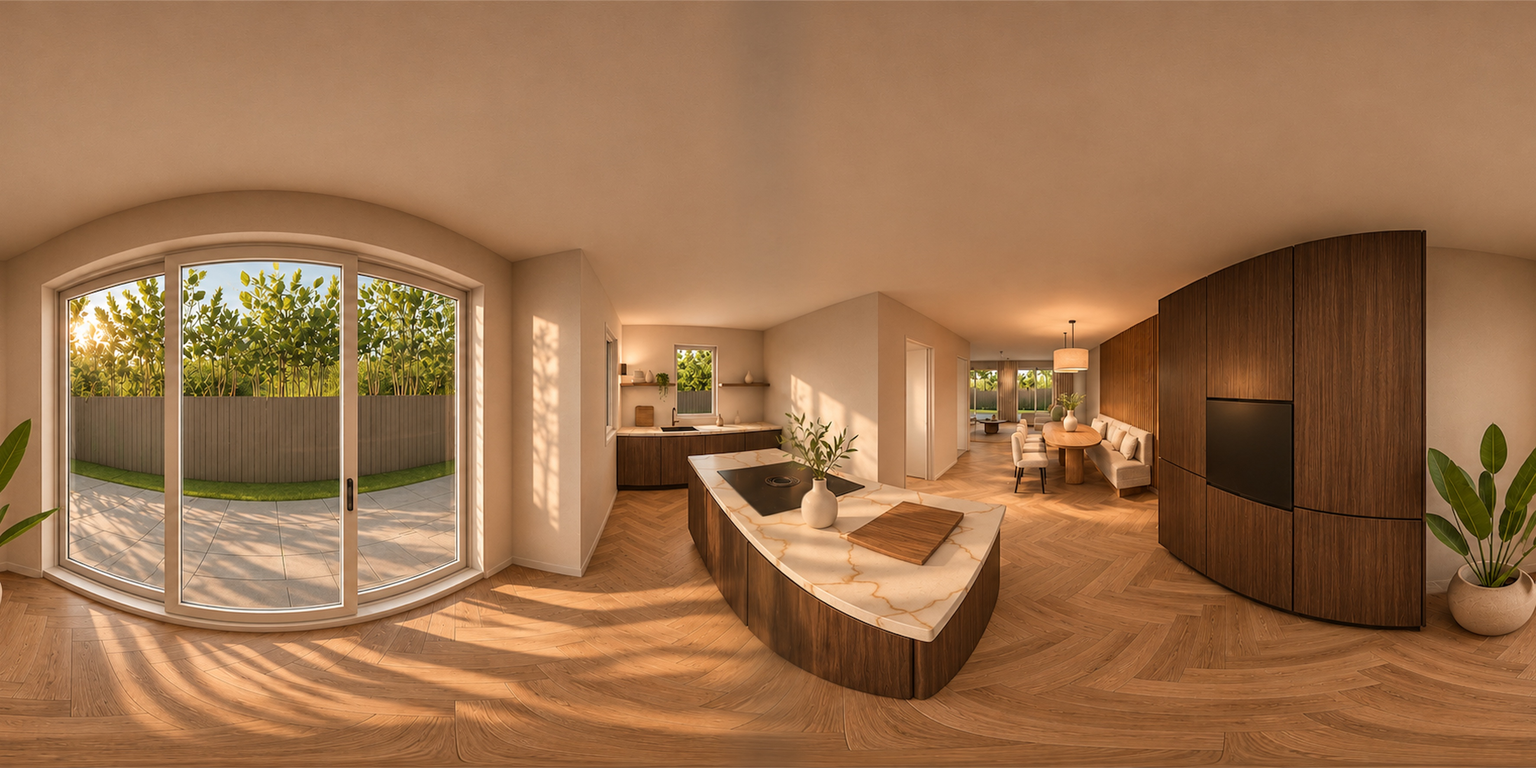
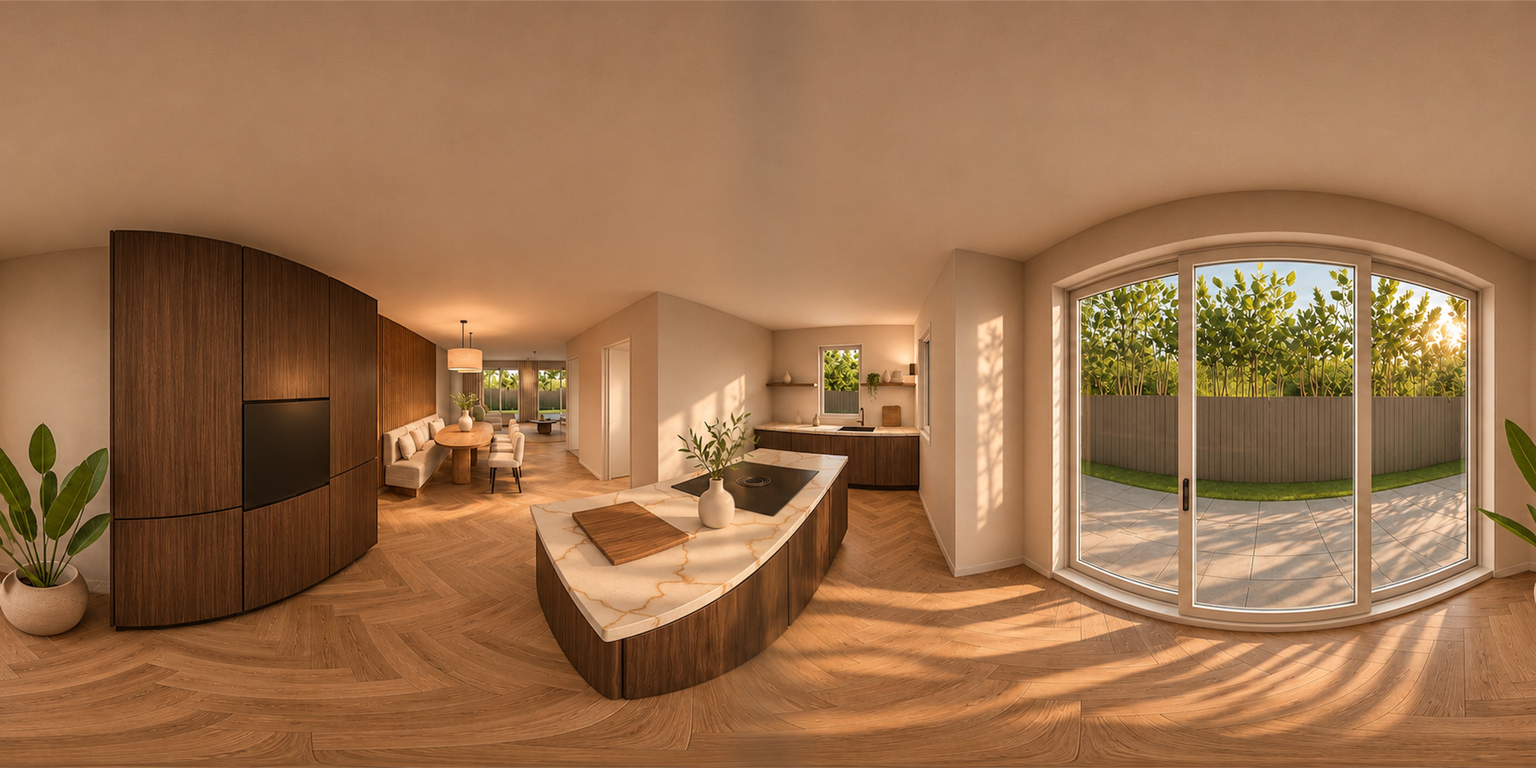
Correct entry orientation and add two living layouts

diff --git a/tour.js b/tour.js
@@ -1,10 +1,20 @@
 const rooms = {
+  binnenkomst: {
+    title: 'Binnenkomst',
+    yaw: 0,
+    pitch: -7,
+    hfov: 118,
+    exits: [
+      { room: 'keuken', text: 'Links naar de keuken', pitch: -11, yaw: -49 },
+      { room: 'woonkamer', text: 'Rechts naar de woonkamer', pitch: -11, yaw: 49 }
+    ]
+  },
   woonkamer: {
     title: 'Woonkamer',
-    yaw: -44,
+    yaw: 44,
     pitch: -6,
     exits: [
-      { room: 'keuken', text: 'Naar de keuken', pitch: -9, yaw: -7 }
+      { room: 'keuken', text: 'Naar de keuken', pitch: -9, yaw: 7 }
     ]
   },
   keuken: {
@@ -12,49 +22,52 @@ const rooms = {
     yaw: 0,
     pitch: -8,
     exits: [
-      { room: 'woonkamer', text: 'Naar de woonkamer', pitch: -10, yaw: 42, targetYaw: -112, targetPitch: -5 }
+      { room: 'woonkamer', text: 'Naar de woonkamer', pitch: -10, yaw: -42, targetYaw: 112, targetPitch: -5 }
     ]
   }
 };
 
-const sceneId = (room, mode, time) => `${room}-${mode}-${time}`;
+const sceneId = ({ room, mode, time, layout }) => `${room}-${mode}-${time}-${layout}`;
 const scenes = {};
-for (const [room, { yaw, pitch, exits }] of Object.entries(rooms)) {
+for (const [room, { yaw, pitch, hfov, exits }] of Object.entries(rooms)) {
   for (const mode of ['foto', 'model']) {
     for (const time of ['dag', 'avond']) {
-      const evening = time === 'avond' ? '-avond' : '';
-      const photo = mode === 'foto' ? '-fotorealistisch' : '';
-      scenes[sceneId(room, mode, time)] = {
-        yaw,
-        pitch,
-        panorama: `panorama/${room}${evening}${photo}.jpg`,
-        hotSpots: exits.map(({ room: destination, ...hotSpot }) => ({
-          ...hotSpot,
-          type: 'scene',
-          sceneId: sceneId(destination, mode, time)
-        }))
-      };
+      for (const layout of ['haard', 'bank']) {
+        const variant = room === 'woonkamer' && layout === 'haard' ? '-haard'
+          : room === 'binnenkomst' && layout === 'bank' ? '-bank' : '';
+        const evening = time === 'avond' ? '-avond' : '';
+        const photo = mode === 'foto' ? '-fotorealistisch' : '';
+        scenes[sceneId({ room, mode, time, layout })] = {
+          yaw,
+          pitch,
+          ...(hfov ? { hfov } : {}),
+          panorama: `panorama/${room}${variant}${evening}${photo}.jpg?v=4`,
+          hotSpots: exits.map(({ room: destination, ...hotSpot }) => ({
+            ...hotSpot,
+            type: 'scene',
+            sceneId: sceneId({ room: destination, mode, time, layout })
+          }))
+        };
+      }
     }
   }
 }
 
-const controls = [
-  ['room', document.querySelectorAll('button[data-room]')],
-  ['mode', document.querySelectorAll('button[data-mode]')],
-  ['time', document.querySelectorAll('button[data-time]')]
-];
+const controls = ['room', 'mode', 'time', 'layout'].map(field => [
+  field, document.querySelectorAll(`button[data-${field}]`)
+]);
 const heading = document.getElementById('room-name');
 const status = document.getElementById('loading');
 
 const viewer = pannellum.viewer('panorama', {
   default: {
-    firstScene: sceneId('woonkamer', 'foto', 'dag'),
+    firstScene: sceneId({ room: 'binnenkomst', mode: 'foto', time: 'dag', layout: 'haard' }),
     type: 'equirectangular',
     autoLoad: true,
     sceneFadeDuration: 320,
     hfov: 87,
     minHfov: 55,
-    maxHfov: 105,
+    maxHfov: 118,
     showControls: true,
     mouseZoom: true,
     strings: {
@@ -69,8 +82,8 @@ const viewer = pannellum.viewer('panorama', {
 });
 
 function sceneState(id) {
-  const [room, mode, time] = id.split('-');
-  return { room, mode, time };
+  const [room, mode, time, layout] = id.split('-');
+  return { room, mode, time, layout };
 }
 
 viewer.on('scenechange', (id) => {
@@ -95,10 +108,12 @@ for (const [field, buttons] of controls) {
     button.addEventListener('click', () => {
       const state = sceneState(viewer.getScene());
       const value = button.dataset[field];
-      if (state[field] === value) return;
+      const goToLiving = field === 'layout' && state.room !== 'woonkamer';
+      if (state[field] === value && !goToLiving) return;
       state[field] = value;
-      const destination = sceneId(state.room, state.mode, state.time);
-      if (field === 'room') {
+      if (goToLiving) state.room = 'woonkamer';
+      const destination = sceneId(state);
+      if (field === 'room' || goToLiving) {
         viewer.loadScene(destination);
       } else {
         viewer.loadScene(destination, viewer.getPitch(), viewer.getYaw(), viewer.getHfov());

diff --git a/index.html b/index.html
@@ -6,16 +6,16 @@
   <meta name="description" content="360°-proefrondleiding door de woonkamer en keuken van Akkerheer.">
   <title>Akkerheer | 360°-rondleiding</title>
   <link rel="stylesheet" href="vendor/pannellum.css">
-  <link rel="stylesheet" href="tour.css?v=3">
+  <link rel="stylesheet" href="tour.css?v=4">
   <script src="vendor/pannellum.js" defer></script>
-  <script src="tour.js?v=3" defer></script>
+  <script src="tour.js?v=4" defer></script>
 </head>
 <body>
   <main>
     <div id="panorama" aria-label="Interactief panorama"></div>
     <header class="caption">
       <p>AKKERHEER · BEGANE GROND</p>
-      <h1 id="room-name" aria-live="polite">Woonkamer</h1>
+      <h1 id="room-name" aria-live="polite">Binnenkomst</h1>
     </header>
     <div class="tour-options">
       <div class="view-mode" role="group" aria-label="Weergave">
@@ -26,10 +26,15 @@
         <button type="button" data-time="dag" aria-pressed="true">Overdag</button>
         <button type="button" data-time="avond" aria-pressed="false">Avond</button>
       </div>
+      <div class="layout-mode" role="group" aria-label="Woonkamerindeling">
+        <button type="button" data-layout="haard" aria-pressed="true">Haard bij eettafel</button>
+        <button type="button" data-layout="bank" aria-pressed="false">Bank bij eettafel</button>
+      </div>
     </div>
     <p id="loading" role="status">Panorama laden…</p>
     <nav aria-label="Kies een ruimte">
-      <button type="button" data-room="woonkamer" aria-pressed="true">Woonkamer</button>
+      <button type="button" data-room="binnenkomst" aria-pressed="true">Binnenkomst</button>
+      <button type="button" data-room="woonkamer" aria-pressed="false">Woonkamer</button>
       <button type="button" data-room="keuken" aria-pressed="false">Keuken</button>
     </nav>
   </main>

diff --git a/tour.css b/tour.css
@@ -18,7 +18,7 @@ body { margin: 0; }
 }
 .caption p { margin: 0 0 7px; font-size: .7rem; letter-spacing: .17em; font-weight: 650; }
 h1 { margin: 0; font: normal clamp(2rem, 4vw, 3.2rem) Georgia, serif; }
-.view-mode, .time-mode, nav {
+.view-mode, .time-mode, .layout-mode, nav {
   display: flex;
   gap: 7px;
   border-radius: 16px;
@@ -42,7 +42,9 @@ nav {
   z-index: 2;
   top: calc(max(0px, env(safe-area-inset-top)) + 25px);
   right: 25px;
+  max-width: 480px;
 }
+.layout-mode { margin-left: auto; }
 button {
   min-height: 44px;
   border: 0;
@@ -78,10 +80,13 @@ button:focus-visible { outline: 2px solid #fff; outline-offset: 2px; }
     justify-content: flex-start;
     gap: 6px;
   }
-  .view-mode, .time-mode { gap: 3px; padding: 4px; }
+  .view-mode, .time-mode, .layout-mode { gap: 3px; padding: 4px; }
+  .layout-mode { margin-left: 0; }
   .tour-options button { padding: 0 10px; }
 }
 @media (max-width: 440px) {
   .pnlm-zoom-controls { display: none; }
   .pnlm-controls-container { right: 10px; }
+  nav { gap: 3px; padding: 4px; }
+  nav button { padding: 0 9px; font-size: .78rem; }
 }
